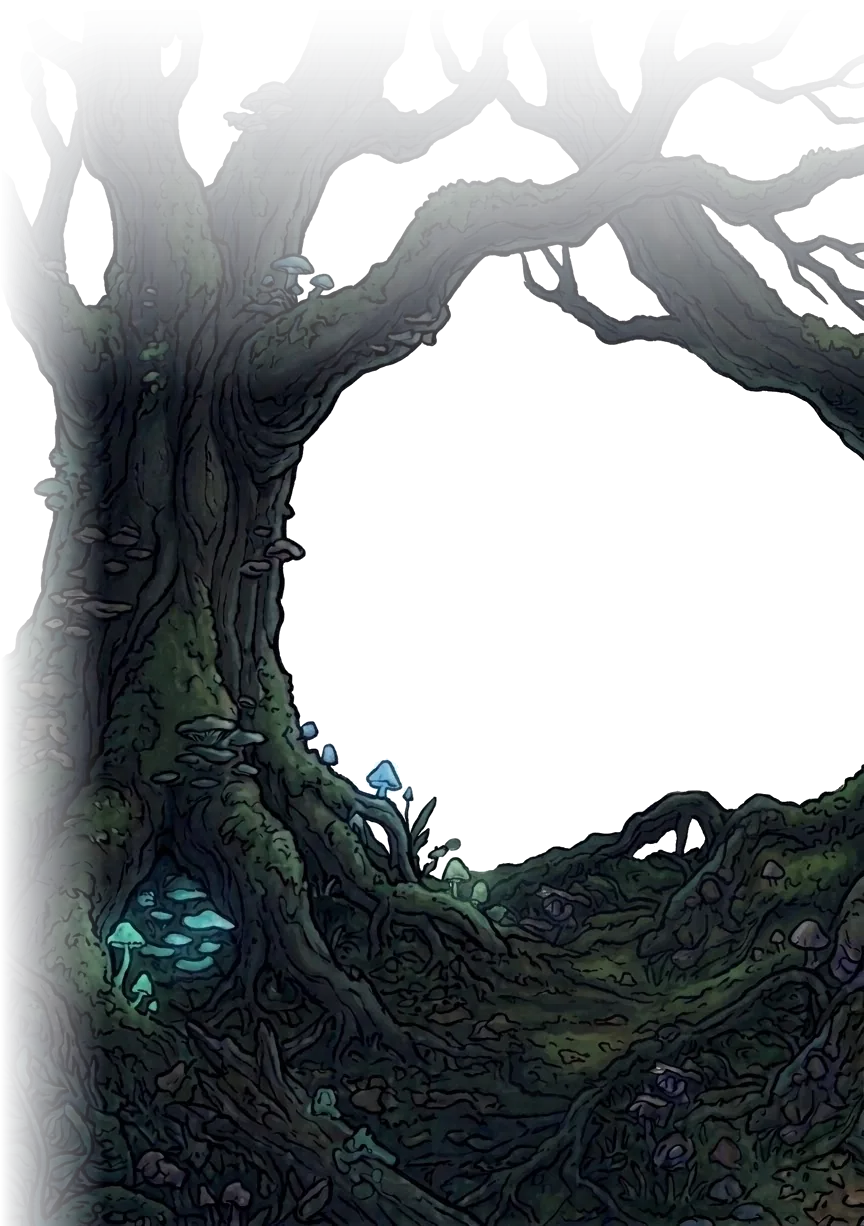
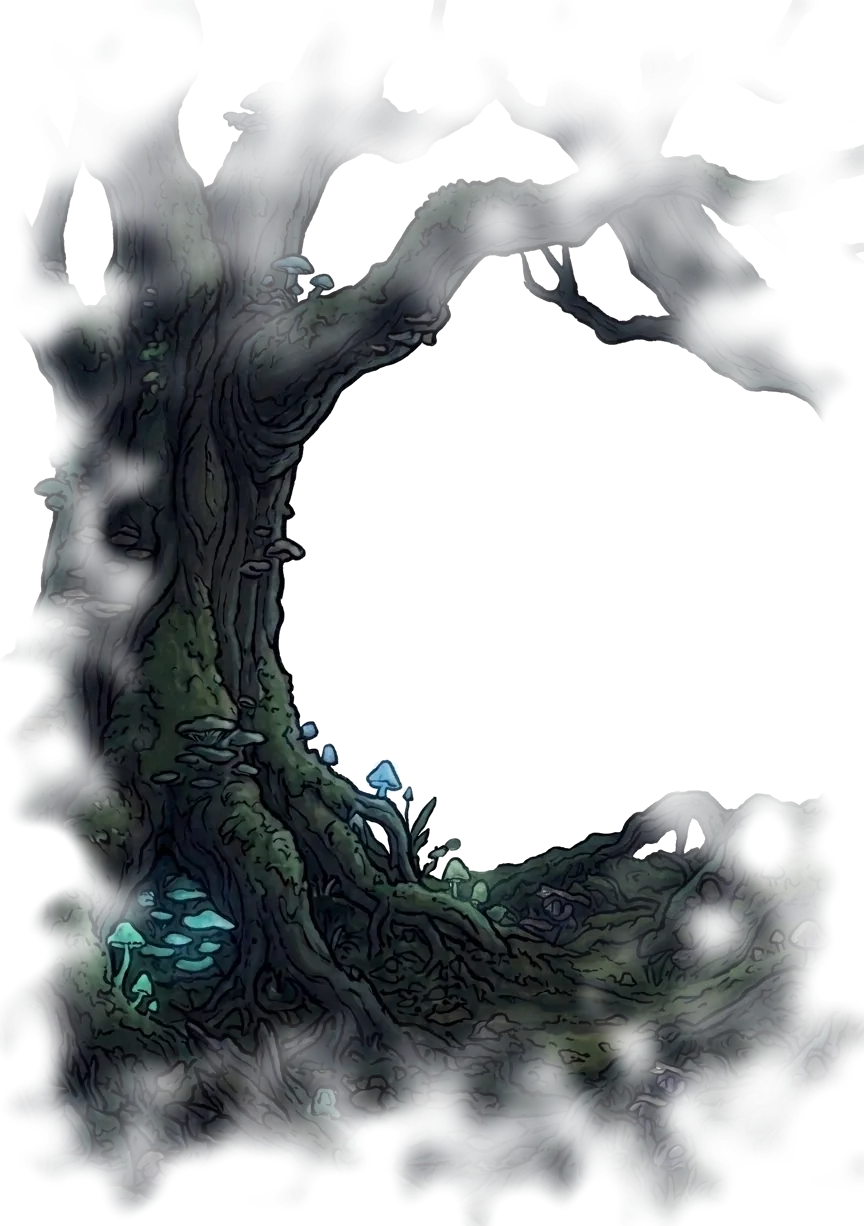
Stranglethorn: soften oak edges, tiny crawling spiders everywhere, webs strung over corridors
Claude-Session: https://claude.ai/code/session_016iBLHZqgtWrdG3jWmShjEG

diff --git a/index.html b/index.html
@@ -49,7 +49,7 @@ body{display:flex;justify-content:center}
 
 <script>
 const ATLAS_SRC="assets/lum_atlas_v5.webp?v=b5d321dc8e";
-const ASSET_SRC={"ground": "assets/ground.webp?v=c61ee31f5b", "rock1": "assets/rock1.webp?v=4e677f3831", "rock2": "assets/rock2.webp?v=7dd0569dcb", "rock3": "assets/rock3.webp?v=56b967ad67", "rock4": "assets/rock4.webp?v=0d1af80431", "cottage": "assets/cottage.webp?v=698443d54d", "cottage_win": "assets/cottage_win.webp?v=7aa924e07f", "cottage_runes": "assets/cottage_runes.webp?v=fedf57d4f3", "well2": "assets/well2.webp?v=af52a369ca", "signpost": "assets/signpost.webp?v=58d6cbc3c9", "runetree": "assets/runetree.webp?v=882fef9528", "runetree_runes": "assets/runetree_runes.webp?v=32432a9566", "forest_bg": "assets/forest_bg.webp?v=48e7441431", "wellroom": "assets/wellroom.webp?v=4c525760c2", "wellroom_runes": "assets/wellroom_runes.webp?v=f42530f4f2", "wellroom_nobucket": "assets/wellroom_nobucket.webp?v=f47f13a7c8", "bucket_hat": "assets/bucket_hat.webp?v=a26814e8f8", "bucket_worn": "assets/bucket_worn.webp?v=a493a15958", "jelly_idle": "assets/jelly_idle.webp?v=71fed74136", "jelly_lunge": "assets/jelly_lunge.webp?v=92b0dc4343", "studyroom": "assets/studyroom.webp?v=a45726d36c", "grave0": "assets/grave0.webp?v=ad382cac7a", "grave1": "assets/grave1.webp?v=cefcf7ebac", "grave2": "assets/grave2.webp?v=9878aa3e55", "grave3": "assets/grave3.webp?v=a7a223d89e", "grave4": "assets/grave4.webp?v=a1028b8b90", "grave5": "assets/grave5.webp?v=0e02f5ad47", "grave6": "assets/grave6.webp?v=d0d80e2012", "grave7": "assets/grave7.webp?v=63f26d00aa", "grave8": "assets/grave8.webp?v=23e439ffe1", "grave9": "assets/grave9.webp?v=e07c5d7e34", "grave10": "assets/grave10.webp?v=fc3c50105c", "grave11": "assets/grave11.webp?v=8c2b60ce50", "bedroom": "assets/bedroom.webp?v=2225ec5dde", "sleep_cos": "assets/sleep_cos.webp?v=1b3af569b0", "sleep_lum": "assets/sleep_lum.webp?v=cd742dd436", "shoproom": "assets/shoproom.webp?v=79fc4857bd", "pondroom": "assets/pondroom.webp?v=50b5134a4a", "pcol_l": "assets/pcol_l.webp?v=e9bb5ccd70", "pcol_r": "assets/pcol_r.webp?v=dbb98c3bbf", "shed": "assets/shed.webp?v=543a9519de", "shedroom": "assets/shedroom.webp?v=f4136aef1d", "mimic": "assets/mimic.webp?v=b4eccb2cc0", "skel": "assets/skel.webp?v=6bdb7d42b9", "fokalur": "assets/fokalur.webp?v=32e8fdde12", "gate": "assets/gate.webp?v=b13c3b515c", "hut": "assets/hut.webp?v=93968f3788", "icon_potion": "assets/icon_potion.webp?v=ead5b0d648", "icon_pouch_seal": "assets/icon_pouch_seal.webp?v=f5895d2c6b", "icon_pouch": "assets/icon_pouch.webp?v=1228805e30", "icon_pouch_rose": "assets/icon_pouch_rose.webp?v=9ce159b238", "icon_pouch_crystal": "assets/icon_pouch_crystal.webp?v=0f51c72ecd", "icon_stick": "assets/icon_stick.webp?v=7da6e80825", "icon_rod": "assets/icon_rod.webp?v=500c8ad5de", "icon_staff_crystal": "assets/icon_staff_crystal.webp?v=2fadb8e7cf", "icon_staff_unicorn": "assets/icon_staff_unicorn.webp?v=19aca18031", "icon_sword_wood": "assets/icon_sword_wood.webp?v=51208a1356", "icon_sword_iron": "assets/icon_sword_iron.webp?v=5d4e663c8b", "icon_blade_dark": "assets/icon_blade_dark.webp?v=f39a2c7691", "icon_sword_long": "assets/icon_sword_long.webp?v=e2ed18cc86", "icon_sword_rune": "assets/icon_sword_rune.webp?v=0950c74e57", "icon_boots_leather": "assets/icon_boots_leather.webp?v=735092ee0b", "icon_boots_rubber_green": "assets/icon_boots_rubber_green.webp?v=698906df6b", "icon_boots_chain": "assets/icon_boots_chain.webp?v=024ff688e1", "icon_boots_plate": "assets/icon_boots_plate.webp?v=74076691fc", "icon_boots_winged": "assets/icon_boots_winged.webp?v=8c4553d310", "icon_cloak_apprentice": "assets/icon_cloak_apprentice.webp?v=1d1a6ddb1f", "icon_cloak_undine": "assets/icon_cloak_undine.webp?v=940789d635", "icon_cloak_green": "assets/icon_cloak_green.webp?v=76adbc8f83", "icon_cloak_grey": "assets/icon_cloak_grey.webp?v=d59e43efdb", "icon_cape_stars": "assets/icon_cape_stars.webp?v=d6e7732a4b", "icon_cape_lion_red": "assets/icon_cape_lion_red.webp?v=71308a4082", "icon_cape_lion_white": "assets/icon_cape_lion_white.webp?v=898859a526", "icon_cape_wings": "assets/icon_cape_wings.webp?v=2f7ea8ce7c", "slugking": "assets/slugking.webp?v=2f01c887f5", "jelly_idle_moss": "assets/jelly_idle_moss.webp?v=86cd24ecd3", "jelly_lunge_moss": "assets/jelly_lunge_moss.webp?v=bb5e70117f", "rskel": "assets/rskel.webp?v=c21afe8d1f", "wisp": "assets/wisp.webp?v=5b64d7379a", "vane": "assets/vane.webp?v=ddc4dc4c1e", "reaper": "assets/reaper.webp?v=2d19da05f6", "vanehut": "assets/vanehut.webp?v=27acb20d56", "ing_duskberry": "assets/ing_duskberry.webp?v=227fa12fae", "ing_dewberry": "assets/ing_dewberry.webp?v=7acbb8f24a", "ing_emberberry": "assets/ing_emberberry.webp?v=182192d25f", "ing_leavesB5": "assets/ing_leavesB5.webp?v=670e67f484", "ing_slime": "assets/ing_slime.webp?v=2d52e374b9", "ing_bones": "assets/ing_bones.webp?v=d2f5252a5b", "ing_twig": "assets/ing_twig.webp?v=ce341bff86", "tool_lantern": "assets/tool_lantern.webp?v=b0badf9ba0", "tool_lantern_ornate": "assets/tool_lantern_ornate.webp?v=6d22a8b9d8", "tool_rune_compass": "assets/tool_rune_compass.webp?v=3d79732549", "emote_grab": "assets/emote_grab.webp?v=0210ee5f87", "icon4_boots_fur": "assets/icon4_boots_fur.webp?v=257380106a", "spider": "assets/spider.webp?v=2082b59414", "bat": "assets/bat.webp?v=8384f2ed44", "fox": "assets/fox.webp?v=d1d5a33797", "flora": "assets/flora.webp?v=b2984d2fc2", "bramble_arch": "assets/bramble_arch.webp?v=f4f04cdb52", "bramble_hedge": "assets/bramble_hedge.webp?v=d4eccc44e3", "oak_big": "assets/oak_big.webp?v=040deed49a", "webtree": "assets/webtree.webp?v=9c025b735f", "bwood_big": "assets/bwood_big.webp?v=cfb9ccc351", "bwood_small_a": "assets/bwood_small_a.webp?v=33d4334dc6", "bwood_small_b": "assets/bwood_small_b.webp?v=85c53e90a1", "bwood2_big": "assets/bwood2_big.webp?v=fdec0206c8", "bwood2_small_a": "assets/bwood2_small_a.webp?v=423d3b4f74", "bwood2_small_b": "assets/bwood2_small_b.webp?v=fc8a2edaac", "floor_st": "assets/floor_st.webp?v=c9eb0963f5", "rose_bud": "assets/rose_bud.webp?v=bcef1e8f75", "rose_open": "assets/rose_open.webp?v=a0242c359d", "rose_twin": "assets/rose_twin.webp?v=e2297a7a91", "thdec_stickweb": "assets/thdec_stickweb.webp?v=a0b5d29ef3", "thdec_mushweb": "assets/thdec_mushweb.webp?v=ef66bb87d1", "thdec_litterweb": "assets/thdec_litterweb.webp?v=55159b7bc4", "thdec_fernweb": "assets/thdec_fernweb.webp?v=835280ac84", "thdec_smallweb": "assets/thdec_smallweb.webp?v=ca6202bcd2", "thdec_log": "assets/thdec_log.webp?v=366093c3a6", "icon3_mortar_clay": "assets/icon3_mortar_clay.webp?v=79428386fe", "icon4_sun_bottle": "assets/icon4_sun_bottle.webp?v=814504de18", "icon3_frost_bowl": "assets/icon3_frost_bowl.webp?v=0e086c9798", "icon3_pastel_powders": "assets/icon3_pastel_powders.webp?v=f431b705e2", "icon2_cross_wood": "assets/icon2_cross_wood.webp?v=161f6ec751", "icon2_key_gold": "assets/icon2_key_gold.webp?v=8ff3771dd5", "hollow": "assets/hollow.webp?v=dfa726d993", "dun5": "assets/dun5.webp?v=85029c1dff", "dun4": "assets/dun4.webp?v=b46827d446", "dun3": "assets/dun3.webp?v=7a88b0e860", "dun2": "assets/dun2.webp?v=21d09cc1d9", "dun1": "assets/dun1.webp?v=06e6dc99cc", "acc_heart_ring": "assets/acc_heart_ring.webp?v=5bc343177a", "acc_braid_ring": "assets/acc_braid_ring.webp?v=ef878f119c", "acc_moon_necklace": "assets/acc_moon_necklace.webp?v=e57426d856", "acc_slime_ring": "assets/acc_slime_ring.webp?v=01154880ae", "acc_amethyst": "assets/acc_amethyst.webp?v=459ad65fc8", "acc_sunmoon_medal": "assets/acc_sunmoon_medal.webp?v=0ebb4c8567", "acc_lion_ring": "assets/acc_lion_ring.webp?v=d803438586", "acc_shell_necklace": "assets/acc_shell_necklace.webp?v=eb822dcaef", "acc_wing_brooch": "assets/acc_wing_brooch.webp?v=9e7d87c59b", "acc_moonstone_ring": "assets/acc_moonstone_ring.webp?v=ffda303e15", "sfg_chest": "assets/sfg_chest.webp?v=a472570ab1", "sfg_table": "assets/sfg_table.webp?v=013527fc10", "sfg_tableleg": "assets/sfg_tableleg.webp?v=1ad782e189", "sfg_side": "assets/sfg_side.webp?v=a4a3f2284f", "sfg_lectern": "assets/sfg_lectern.webp?v=c0df8fec54", "sfg_roots": "assets/sfg_roots.webp?v=c59040b279", "birch1": "assets/birch1.webp?v=b0ea24106f", "birch2": "assets/birch2.webp?v=2dd033eac7", "birch3": "assets/birch3.webp?v=e64553ecbd", "willow1": "assets/willow1.webp?v=98786f0c84", "cobble_strip": "assets/cobble_strip.webp?v=284855081b", "cobble_runes": "assets/cobble_runes.webp?v=07a4cad76e", "bridge0": "assets/bridge0.webp?v=c930b521f8", "bridge1": "assets/bridge1.webp?v=8e675faec7", "bridge2": "assets/bridge2.webp?v=65bc61c470", "bridge3": "assets/bridge3.webp?v=153e2f5c59", "bridge4": "assets/bridge4.webp?v=b6ff9fef90", "drained0": "assets/drained0.webp?v=dee278254d", "drained1": "assets/drained1.webp?v=c38f30e4a2", "drained2": "assets/drained2.webp?v=c2abd46393", "drained3": "assets/drained3.webp?v=d0408dce90", "drained4": "assets/drained4.webp?v=49fe89ce29", "drained5": "assets/drained5.webp?v=8b2a410ea1", "drained6": "assets/drained6.webp?v=b735f267b4", "drained7": "assets/drained7.webp?v=aefa2993f7", "drained8": "assets/drained8.webp?v=e853833327", "drained9": "assets/drained9.webp?v=9a5541fe81", "shrub0": "assets/shrub0.webp?v=f9f7df7aac", "shrub1": "assets/shrub1.webp?v=f4825b0d48", "shrub2": "assets/shrub2.webp?v=b0edbbd898", "shrub3": "assets/shrub3.webp?v=bc7a089a89", "shrub4": "assets/shrub4.webp?v=bb66d76d2e", "shrub5": "assets/shrub5.webp?v=ffbae35557", "shrub6": "assets/shrub6.webp?v=1c234a4c17", "shrub7": "assets/shrub7.webp?v=5b1a8119f9", "shrub8": "assets/shrub8.webp?v=a937edbbf3", "shrub9": "assets/shrub9.webp?v=dfb2f54698", "shrub10": "assets/shrub10.webp?v=5c2dd38d41", "shrub11": "assets/shrub11.webp?v=3faa1b4736", "bird0": "assets/bird0.webp?v=7d5d2404e5", "bird1": "assets/bird1.webp?v=eb12c73b19", "bird2": "assets/bird2.webp?v=ca02415237", "bird3": "assets/bird3.webp?v=42efa7eb02", "bird4": "assets/bird4.webp?v=7a9329e236", "bird5": "assets/bird5.webp?v=90bd3aa6a3", "bird6": "assets/bird6.webp?v=0a764f8ed6", "bird7": "assets/bird7.webp?v=04e3aa6d61", "bird8": "assets/bird8.webp?v=11cac9e48b", "bird9": "assets/bird9.webp?v=209732f271", "bird10": "assets/bird10.webp?v=518afeccc0", "bird11": "assets/bird11.webp?v=41c18c5083", "bird12": "assets/bird12.webp?v=9250bb7453", "topi_cube": "assets/topi_cube.webp?v=1fc6082fd5", "topi_ball": "assets/topi_ball.webp?v=78a3cfcc82", "topi_spiral": "assets/topi_spiral.webp?v=d6ac5cd38a", "topi_cone": "assets/topi_cone.webp?v=67e11f2900"};
+const ASSET_SRC={"ground": "assets/ground.webp?v=c61ee31f5b", "rock1": "assets/rock1.webp?v=4e677f3831", "rock2": "assets/rock2.webp?v=7dd0569dcb", "rock3": "assets/rock3.webp?v=56b967ad67", "rock4": "assets/rock4.webp?v=0d1af80431", "cottage": "assets/cottage.webp?v=698443d54d", "cottage_win": "assets/cottage_win.webp?v=7aa924e07f", "cottage_runes": "assets/cottage_runes.webp?v=fedf57d4f3", "well2": "assets/well2.webp?v=af52a369ca", "signpost": "assets/signpost.webp?v=58d6cbc3c9", "runetree": "assets/runetree.webp?v=882fef9528", "runetree_runes": "assets/runetree_runes.webp?v=32432a9566", "forest_bg": "assets/forest_bg.webp?v=48e7441431", "wellroom": "assets/wellroom.webp?v=4c525760c2", "wellroom_runes": "assets/wellroom_runes.webp?v=f42530f4f2", "wellroom_nobucket": "assets/wellroom_nobucket.webp?v=f47f13a7c8", "bucket_hat": "assets/bucket_hat.webp?v=a26814e8f8", "bucket_worn": "assets/bucket_worn.webp?v=a493a15958", "jelly_idle": "assets/jelly_idle.webp?v=71fed74136", "jelly_lunge": "assets/jelly_lunge.webp?v=92b0dc4343", "studyroom": "assets/studyroom.webp?v=a45726d36c", "grave0": "assets/grave0.webp?v=ad382cac7a", "grave1": "assets/grave1.webp?v=cefcf7ebac", "grave2": "assets/grave2.webp?v=9878aa3e55", "grave3": "assets/grave3.webp?v=a7a223d89e", "grave4": "assets/grave4.webp?v=a1028b8b90", "grave5": "assets/grave5.webp?v=0e02f5ad47", "grave6": "assets/grave6.webp?v=d0d80e2012", "grave7": "assets/grave7.webp?v=63f26d00aa", "grave8": "assets/grave8.webp?v=23e439ffe1", "grave9": "assets/grave9.webp?v=e07c5d7e34", "grave10": "assets/grave10.webp?v=fc3c50105c", "grave11": "assets/grave11.webp?v=8c2b60ce50", "bedroom": "assets/bedroom.webp?v=2225ec5dde", "sleep_cos": "assets/sleep_cos.webp?v=1b3af569b0", "sleep_lum": "assets/sleep_lum.webp?v=cd742dd436", "shoproom": "assets/shoproom.webp?v=79fc4857bd", "pondroom": "assets/pondroom.webp?v=50b5134a4a", "pcol_l": "assets/pcol_l.webp?v=e9bb5ccd70", "pcol_r": "assets/pcol_r.webp?v=dbb98c3bbf", "shed": "assets/shed.webp?v=543a9519de", "shedroom": "assets/shedroom.webp?v=f4136aef1d", "mimic": "assets/mimic.webp?v=b4eccb2cc0", "skel": "assets/skel.webp?v=6bdb7d42b9", "fokalur": "assets/fokalur.webp?v=32e8fdde12", "gate": "assets/gate.webp?v=b13c3b515c", "hut": "assets/hut.webp?v=93968f3788", "icon_potion": "assets/icon_potion.webp?v=ead5b0d648", "icon_pouch_seal": "assets/icon_pouch_seal.webp?v=f5895d2c6b", "icon_pouch": "assets/icon_pouch.webp?v=1228805e30", "icon_pouch_rose": "assets/icon_pouch_rose.webp?v=9ce159b238", "icon_pouch_crystal": "assets/icon_pouch_crystal.webp?v=0f51c72ecd", "icon_stick": "assets/icon_stick.webp?v=7da6e80825", "icon_rod": "assets/icon_rod.webp?v=500c8ad5de", "icon_staff_crystal": "assets/icon_staff_crystal.webp?v=2fadb8e7cf", "icon_staff_unicorn": "assets/icon_staff_unicorn.webp?v=19aca18031", "icon_sword_wood": "assets/icon_sword_wood.webp?v=51208a1356", "icon_sword_iron": "assets/icon_sword_iron.webp?v=5d4e663c8b", "icon_blade_dark": "assets/icon_blade_dark.webp?v=f39a2c7691", "icon_sword_long": "assets/icon_sword_long.webp?v=e2ed18cc86", "icon_sword_rune": "assets/icon_sword_rune.webp?v=0950c74e57", "icon_boots_leather": "assets/icon_boots_leather.webp?v=735092ee0b", "icon_boots_rubber_green": "assets/icon_boots_rubber_green.webp?v=698906df6b", "icon_boots_chain": "assets/icon_boots_chain.webp?v=024ff688e1", "icon_boots_plate": "assets/icon_boots_plate.webp?v=74076691fc", "icon_boots_winged": "assets/icon_boots_winged.webp?v=8c4553d310", "icon_cloak_apprentice": "assets/icon_cloak_apprentice.webp?v=1d1a6ddb1f", "icon_cloak_undine": "assets/icon_cloak_undine.webp?v=940789d635", "icon_cloak_green": "assets/icon_cloak_green.webp?v=76adbc8f83", "icon_cloak_grey": "assets/icon_cloak_grey.webp?v=d59e43efdb", "icon_cape_stars": "assets/icon_cape_stars.webp?v=d6e7732a4b", "icon_cape_lion_red": "assets/icon_cape_lion_red.webp?v=71308a4082", "icon_cape_lion_white": "assets/icon_cape_lion_white.webp?v=898859a526", "icon_cape_wings": "assets/icon_cape_wings.webp?v=2f7ea8ce7c", "slugking": "assets/slugking.webp?v=2f01c887f5", "jelly_idle_moss": "assets/jelly_idle_moss.webp?v=86cd24ecd3", "jelly_lunge_moss": "assets/jelly_lunge_moss.webp?v=bb5e70117f", "rskel": "assets/rskel.webp?v=c21afe8d1f", "wisp": "assets/wisp.webp?v=5b64d7379a", "vane": "assets/vane.webp?v=ddc4dc4c1e", "reaper": "assets/reaper.webp?v=2d19da05f6", "vanehut": "assets/vanehut.webp?v=27acb20d56", "ing_duskberry": "assets/ing_duskberry.webp?v=227fa12fae", "ing_dewberry": "assets/ing_dewberry.webp?v=7acbb8f24a", "ing_emberberry": "assets/ing_emberberry.webp?v=182192d25f", "ing_leavesB5": "assets/ing_leavesB5.webp?v=670e67f484", "ing_slime": "assets/ing_slime.webp?v=2d52e374b9", "ing_bones": "assets/ing_bones.webp?v=d2f5252a5b", "ing_twig": "assets/ing_twig.webp?v=ce341bff86", "tool_lantern": "assets/tool_lantern.webp?v=b0badf9ba0", "tool_lantern_ornate": "assets/tool_lantern_ornate.webp?v=6d22a8b9d8", "tool_rune_compass": "assets/tool_rune_compass.webp?v=3d79732549", "emote_grab": "assets/emote_grab.webp?v=0210ee5f87", "icon4_boots_fur": "assets/icon4_boots_fur.webp?v=257380106a", "spider": "assets/spider.webp?v=2082b59414", "bat": "assets/bat.webp?v=8384f2ed44", "fox": "assets/fox.webp?v=d1d5a33797", "flora": "assets/flora.webp?v=b2984d2fc2", "bramble_arch": "assets/bramble_arch.webp?v=f4f04cdb52", "bramble_hedge": "assets/bramble_hedge.webp?v=d4eccc44e3", "oak_big": "assets/oak_big.webp?v=a31af37e20", "webtree": "assets/webtree.webp?v=9c025b735f", "bwood_big": "assets/bwood_big.webp?v=cfb9ccc351", "bwood_small_a": "assets/bwood_small_a.webp?v=33d4334dc6", "bwood_small_b": "assets/bwood_small_b.webp?v=85c53e90a1", "bwood2_big": "assets/bwood2_big.webp?v=fdec0206c8", "bwood2_small_a": "assets/bwood2_small_a.webp?v=423d3b4f74", "bwood2_small_b": "assets/bwood2_small_b.webp?v=fc8a2edaac", "floor_st": "assets/floor_st.webp?v=c9eb0963f5", "rose_bud": "assets/rose_bud.webp?v=bcef1e8f75", "rose_open": "assets/rose_open.webp?v=a0242c359d", "rose_twin": "assets/rose_twin.webp?v=e2297a7a91", "thdec_stickweb": "assets/thdec_stickweb.webp?v=a0b5d29ef3", "thdec_mushweb": "assets/thdec_mushweb.webp?v=ef66bb87d1", "thdec_litterweb": "assets/thdec_litterweb.webp?v=55159b7bc4", "thdec_fernweb": "assets/thdec_fernweb.webp?v=835280ac84", "thdec_smallweb": "assets/thdec_smallweb.webp?v=ca6202bcd2", "thdec_log": "assets/thdec_log.webp?v=366093c3a6", "icon3_mortar_clay": "assets/icon3_mortar_clay.webp?v=79428386fe", "icon4_sun_bottle": "assets/icon4_sun_bottle.webp?v=814504de18", "icon3_frost_bowl": "assets/icon3_frost_bowl.webp?v=0e086c9798", "icon3_pastel_powders": "assets/icon3_pastel_powders.webp?v=f431b705e2", "icon2_cross_wood": "assets/icon2_cross_wood.webp?v=161f6ec751", "icon2_key_gold": "assets/icon2_key_gold.webp?v=8ff3771dd5", "hollow": "assets/hollow.webp?v=dfa726d993", "dun5": "assets/dun5.webp?v=85029c1dff", "dun4": "assets/dun4.webp?v=b46827d446", "dun3": "assets/dun3.webp?v=7a88b0e860", "dun2": "assets/dun2.webp?v=21d09cc1d9", "dun1": "assets/dun1.webp?v=06e6dc99cc", "acc_heart_ring": "assets/acc_heart_ring.webp?v=5bc343177a", "acc_braid_ring": "assets/acc_braid_ring.webp?v=ef878f119c", "acc_moon_necklace": "assets/acc_moon_necklace.webp?v=e57426d856", "acc_slime_ring": "assets/acc_slime_ring.webp?v=01154880ae", "acc_amethyst": "assets/acc_amethyst.webp?v=459ad65fc8", "acc_sunmoon_medal": "assets/acc_sunmoon_medal.webp?v=0ebb4c8567", "acc_lion_ring": "assets/acc_lion_ring.webp?v=d803438586", "acc_shell_necklace": "assets/acc_shell_necklace.webp?v=eb822dcaef", "acc_wing_brooch": "assets/acc_wing_brooch.webp?v=9e7d87c59b", "acc_moonstone_ring": "assets/acc_moonstone_ring.webp?v=ffda303e15", "sfg_chest": "assets/sfg_chest.webp?v=a472570ab1", "sfg_table": "assets/sfg_table.webp?v=013527fc10", "sfg_tableleg": "assets/sfg_tableleg.webp?v=1ad782e189", "sfg_side": "assets/sfg_side.webp?v=a4a3f2284f", "sfg_lectern": "assets/sfg_lectern.webp?v=c0df8fec54", "sfg_roots": "assets/sfg_roots.webp?v=c59040b279", "birch1": "assets/birch1.webp?v=b0ea24106f", "birch2": "assets/birch2.webp?v=2dd033eac7", "birch3": "assets/birch3.webp?v=e64553ecbd", "willow1": "assets/willow1.webp?v=98786f0c84", "cobble_strip": "assets/cobble_strip.webp?v=284855081b", "cobble_runes": "assets/cobble_runes.webp?v=07a4cad76e", "bridge0": "assets/bridge0.webp?v=c930b521f8", "bridge1": "assets/bridge1.webp?v=8e675faec7", "bridge2": "assets/bridge2.webp?v=65bc61c470", "bridge3": "assets/bridge3.webp?v=153e2f5c59", "bridge4": "assets/bridge4.webp?v=b6ff9fef90", "drained0": "assets/drained0.webp?v=dee278254d", "drained1": "assets/drained1.webp?v=c38f30e4a2", "drained2": "assets/drained2.webp?v=c2abd46393", "drained3": "assets/drained3.webp?v=d0408dce90", "drained4": "assets/drained4.webp?v=49fe89ce29", "drained5": "assets/drained5.webp?v=8b2a410ea1", "drained6": "assets/drained6.webp?v=b735f267b4", "drained7": "assets/drained7.webp?v=aefa2993f7", "drained8": "assets/drained8.webp?v=e853833327", "drained9": "assets/drained9.webp?v=9a5541fe81", "shrub0": "assets/shrub0.webp?v=f9f7df7aac", "shrub1": "assets/shrub1.webp?v=f4825b0d48", "shrub2": "assets/shrub2.webp?v=b0edbbd898", "shrub3": "assets/shrub3.webp?v=bc7a089a89", "shrub4": "assets/shrub4.webp?v=bb66d76d2e", "shrub5": "assets/shrub5.webp?v=ffbae35557", "shrub6": "assets/shrub6.webp?v=1c234a4c17", "shrub7": "assets/shrub7.webp?v=5b1a8119f9", "shrub8": "assets/shrub8.webp?v=a937edbbf3", "shrub9": "assets/shrub9.webp?v=dfb2f54698", "shrub10": "assets/shrub10.webp?v=5c2dd38d41", "shrub11": "assets/shrub11.webp?v=3faa1b4736", "bird0": "assets/bird0.webp?v=7d5d2404e5", "bird1": "assets/bird1.webp?v=eb12c73b19", "bird2": "assets/bird2.webp?v=ca02415237", "bird3": "assets/bird3.webp?v=42efa7eb02", "bird4": "assets/bird4.webp?v=7a9329e236", "bird5": "assets/bird5.webp?v=90bd3aa6a3", "bird6": "assets/bird6.webp?v=0a764f8ed6", "bird7": "assets/bird7.webp?v=04e3aa6d61", "bird8": "assets/bird8.webp?v=11cac9e48b", "bird9": "assets/bird9.webp?v=209732f271", "bird10": "assets/bird10.webp?v=518afeccc0", "bird11": "assets/bird11.webp?v=41c18c5083", "bird12": "assets/bird12.webp?v=9250bb7453", "topi_cube": "assets/topi_cube.webp?v=1fc6082fd5", "topi_ball": "assets/topi_ball.webp?v=78a3cfcc82", "topi_spiral": "assets/topi_spiral.webp?v=d6ac5cd38a", "topi_cone": "assets/topi_cone.webp?v=67e11f2900"};
 const COSMIC_SRC="assets/cosmic_atlas.webp?v=f87006b14b";
 const SLUG_SRC="assets/slug_atlas.webp?v=0aa482f919";
 (()=>{
@@ -2910,9 +2910,9 @@ function thornFree(x,y){if(x<18||y<14||y>TH_-14)return false;if(x>TW_-12&&Math.f
   if(Math.hypot((x-(12*TCW+TCW/2))/110,(y-(2*TCH+62))/34)<1)return false;
   return true;}
 function solveThorn(px,py,nx,ny){if(thornFree(nx,ny))return [nx,ny];if(thornFree(nx,py))return [nx,py];if(thornFree(px,ny))return [px,ny];return [px,py];}
-function enterThorn(){buildThorn();SCENE='thorn';lum.x=40;lum.y=TMZ.start*TCH+TCH/2+10;lum.face=1;lum.vx=lum.vy=0;lum.state='idle';lum.alpha=1;cam.x=lum.x+120;cam.y=lum.y-50;THORN.t=0;GOAL.tag='TASK';GOAL.text='Follow the red flowers through Stranglethorn';HINT.goalT=0;}
+function enterThorn(){buildThorn();if(!THORN.spiders)buildThornCritters();SCENE='thorn';lum.x=40;lum.y=TMZ.start*TCH+TCH/2+10;lum.face=1;lum.vx=lum.vy=0;lum.state='idle';lum.alpha=1;cam.x=lum.x+120;cam.y=lum.y-50;THORN.t=0;GOAL.tag='TASK';GOAL.text='Follow the red flowers through Stranglethorn';HINT.goalT=0;}
 function startThornPreview(){audioInit();c1Reset();C1.introDone=1;C1.hedgeSeen=1;C1I.on=false;WEVENT.on=false;INTRO.lumShown=true;if(!BAG.includes('lantern'))BAG.push('lantern');FADE.a=1;FADE.dir=-1;enterThorn();}
-function updateThorn(dt){updateThornAtmos(dt);const k=Math.min(1,dt*4.5);cam.x+=(lum.x+40-cam.x)*k;cam.y+=(lum.y-50-cam.y)*k;const vw=W/zoom,vh=H/zoom;cam.x=clamp(cam.x,vw/2-80,TW_+80-vw/2);cam.y=clamp(cam.y,-200+vh/2,TH_+60-vh/2);THORN.t+=dt;
+function updateThorn(dt){updateThornAtmos(dt);updateThornCritters(dt);const k=Math.min(1,dt*4.5);cam.x+=(lum.x+40-cam.x)*k;cam.y+=(lum.y-50-cam.y)*k;const vw=W/zoom,vh=H/zoom;cam.x=clamp(cam.x,vw/2-80,TW_+80-vw/2);cam.y=clamp(cam.y,-200+vh/2,TH_+60-vh/2);THORN.t+=dt;
   if(lum.x>TW_-30&&!C1.thornEnd&&!DLG.active){C1.thornEnd=1;C1.endCard=.001;}}
 function drawRedFlowers(x,y,s,seed){ctx.save();ctx.translate(x,y);ctx.scale(s,s);
   for(let i=0;i<4;i++){const a=hash(seed,i,61)*TAU,l=10+hash(seed,i,63)*8;ctx.fillStyle='#2f4a24';ctx.beginPath();ctx.ellipse(Math.cos(a)*l*.6,Math.sin(a)*l*.3+2,l*.55,3,a,0,TAU);ctx.fill();}
@@ -2967,6 +2967,46 @@ function updateThornAtmos(dt){const A=THORN.motes||(THORN.motes=[]);const vw=W/z
         const o=c.createOscillator(),g=c.createGain();o.type='sine';o.frequency.value=[622,698,740,932][Math.floor(Math.random()*4)];g.gain.setValueAtTime(0,now);g.gain.linearRampToValueAtTime(.025,now+.05);g.gain.exponentialRampToValueAtTime(.0005,now+3.5);o.connect(g);g.connect(SND.sfxVerb||SND.sfx);o.start(now);o.stop(now+3.6);}}}}}
 function drawThornMotes(){const A=THORN.motes||[];ctx.save();for(const m of A){if(m.k==='mote'){ctx.globalCompositeOperation='lighter';const tw=.5+.5*Math.sin(T*2+m.ph);drawGlow(ctx,m.x,m.y-m.z,m.s*5,'200,190,230',.22*tw);}
   else{ctx.globalCompositeOperation='source-over';ctx.save();ctx.translate(m.x,m.y);ctx.rotate(m.rot);ctx.scale(1,.55+.45*Math.sin(m.rot*1.7));ctx.fillStyle='rgba(120,22,34,.85)';ctx.beginPath();ctx.ellipse(0,0,m.s,m.s*.55,0,0,TAU);ctx.fill();ctx.restore();}}ctx.restore();}
+
+/* ---------- tiny crawling spiders and webs strung over the corridors ---------- */
+function buildThornCritters(){const H_=(a,b,s)=>hash(a,b,s);THORN.spiders=[];THORN.webs=[];
+  for(let r=0;r<TMZ.R;r++)for(let c=0;c<TMZ.C;c++){
+    const n=1+Math.floor(H_(r,c,101)*3);for(let k=0;k<n;k++)THORN.spiders.push({x:c*TCW+40+H_(r,c*5+k,103)*(TCW-80),y:r*TCH+40+H_(r,c*5+k,105)*(TCH-80),cx:c*TCW,cy:r*TCH,a:H_(r,c*5+k,107)*TAU,v:0,t:H_(r,c*5+k,109)*3,ph:H_(r,c*5+k,111)*5,s:.8+H_(r,c*5+k,113)*.5});
+    // a web across the corridor wherever both sides are hedged
+    if(vW(r,c)&&vW(r,c+1)&&H_(r,c,121)<.45)THORN.webs.push(mkWeb(c*TCW+20,r*TCH+TCH*(.35+H_(r,c,123)*.35),(c+1)*TCW-20,0,r*1000+c));
+    else if(hW(r,c)&&hW(r+1,c)&&H_(r,c,125)<.4)THORN.webs.push(mkWeb(c*TCW+TCW*(.3+H_(r,c,127)*.4),r*TCH+8,0,(r+1)*TCH-8,r*1000+c+500,true));}}
+function mkWeb(x0,y0,x1,y1,seed,vert){// x0,y0 to x1 (horizontal span) or y0 to y1 (vertical span); drawn as a raised web overhead
+  const R_=(k)=>hash(seed,k,131);let cx,cy,anch=[];
+  if(!vert){cx=(x0+x1)/2+(R_(1)-.5)*60;cy=y0-150-R_(2)*40;anch=[[x0,y0-170-R_(3)*50],[x0+10,y0-70],[x1,y0-160-R_(4)*50],[x1-10,y0-60],[cx+(R_(5)-.5)*80,y0-300-R_(6)*40],[cx+(R_(7)-.5)*60,y0-40]];}
+  else{cx=x0+(R_(1)-.5)*40;cy=(y0+y1)/2-150;anch=[[x0-90,y0-120],[x0+90,y0-130],[x0-80,y1-170],[x0+85,y1-160],[x0-150,cy+(R_(5)-.5)*40],[x0+150,cy+(R_(6)-.5)*40]];}
+  return {cx,cy,anch,seed,y:vert?y1:y0,spider:R_(9)<.5,sway:R_(10)*TAU,can:null};}
+function webCanvas(w){if(w.can)return w.can;let x0=1e9,y0=1e9,x1=-1e9,y1=-1e9;for(const [x,y] of w.anch){x0=Math.min(x0,x);y0=Math.min(y0,y);x1=Math.max(x1,x);y1=Math.max(y1,y);}
+  const pad=20,cw=Math.ceil(x1-x0+pad*2),ch=Math.ceil(y1-y0+pad*2),c=document.createElement('canvas');c.width=cw;c.height=ch;const g=c.getContext('2d');const ox=-x0+pad,oy=-y0+pad,cx=w.cx+ox,cy=w.cy+oy;
+  g.lineCap='round';g.strokeStyle='rgba(235,232,245,.75)';g.lineWidth=1.3;
+  // frame threads to the anchors, then radials, then the sticky spiral
+  const A=w.anch.map(([x,y])=>[x+ox,y+oy]).sort((p,q)=>Math.atan2(p[1]-cy,p[0]-cx)-Math.atan2(q[1]-cy,q[0]-cx));
+  for(const [x,y] of A){g.beginPath();g.moveTo(cx,cy);g.lineTo(x,y);g.stroke();}
+  g.lineWidth=.9;g.strokeStyle='rgba(225,222,240,.55)';const rad=[];const NR=16;for(let i=0;i<NR;i++){const a=i/NR*TAU+hash(w.seed,i,141)*.2;let best=1e9;
+    // radial length limited by the frame polygon
+    for(let k=0;k<A.length;k++){const p=A[k],q=A[(k+1)%A.length];const dx=Math.cos(a),dy=Math.sin(a),ex=q[0]-p[0],ey=q[1]-p[1],den=dx*ey-dy*ex;if(Math.abs(den)<1e-6)continue;const t=((p[0]-cx)*ey-(p[1]-cy)*ex)/den,u=((p[0]-cx)*dy-(p[1]-cy)*dx)/den;if(t>0&&u>=0&&u<=1)best=Math.min(best,t);}
+    if(best>1e8)best=60;rad.push([a,best]);g.beginPath();g.moveTo(cx,cy);g.lineTo(cx+Math.cos(a)*best,cy+Math.sin(a)*best);g.stroke();}
+  for(let k=0;k<A.length;k++){const p=A[k],q=A[(k+1)%A.length];g.beginPath();g.moveTo(p[0],p[1]);g.quadraticCurveTo((p[0]+q[0])/2+(cx-(p[0]+q[0])/2)*.12,(p[1]+q[1])/2+(cy-(p[1]+q[1])/2)*.12,q[0],q[1]);g.stroke();}
+  g.lineWidth=.8;g.strokeStyle='rgba(230,228,245,.5)';for(let ring=1;ring<=11;ring++){const f=ring/12;g.beginPath();for(let i=0;i<=NR;i++){const [a,L]=rad[i%NR],rr=L*f*(1+(hash(w.seed,ring*20+i,151)-.5)*.06);const px=cx+Math.cos(a)*rr,py=cy+Math.sin(a)*rr+f*4;if(!i)g.moveTo(px,py);else{const [pa,pL]=rad[(i-1)%NR],pr=pL*f,mx=cx+Math.cos((pa+a)/2+(i===NR?Math.PI:0))*pr*.93,my=cy+Math.sin((pa+a)/2+(i===NR?Math.PI:0))*pr*.93+f*6;g.quadraticCurveTo(mx,my,px,py);}}g.stroke();}
+  // a few torn strands hanging down
+  g.strokeStyle='rgba(225,222,240,.4)';for(let i=0;i<4;i++){const [a,L]=rad[(i*5)%NR];const px=cx+Math.cos(a)*L*.7,py=cy+Math.sin(a)*L*.7;g.beginPath();g.moveTo(px,py);g.quadraticCurveTo(px+6,py+30,px+(hash(w.seed,i,161)-.5)*20,py+50+hash(w.seed,i,163)*50);g.stroke();}
+  c.ox=x0-pad;c.oy=y0-pad;w.can=c;return c;}
+function updateThornCritters(dt){const vw=W/zoom,vh=H/zoom;for(const sp of THORN.spiders||[]){if(Math.abs(sp.x-cam.x)>vw||Math.abs(sp.y-cam.y)>vh)continue;sp.t-=dt;
+    if(sp.t<=0){if(Math.random()<.35){sp.v=0;sp.t=rnd(.6,2.2);}else{sp.v=rnd(20,46);sp.a+=rnd(-1.6,1.6);sp.t=rnd(.8,2.6);}}
+    // scatter from Lum's feet
+    const dx=sp.x-lum.x,dy=sp.y-lum.y,d=Math.hypot(dx,dy);if(d<70){sp.a=Math.atan2(dy,dx);sp.v=80;sp.t=.6;}
+    if(sp.v>0){let nx=sp.x+Math.cos(sp.a)*sp.v*dt,ny=sp.y+Math.sin(sp.a)*sp.v*dt*.7;if(nx<sp.cx+16||nx>sp.cx+TCW-16){sp.a=Math.PI-sp.a;nx=sp.x;}if(ny<sp.cy+10||ny>sp.cy+TCH-10){sp.a=-sp.a;ny=sp.y;}sp.x=nx;sp.y=ny;sp.ph+=dt*sp.v*.25;}}}
+function drawThornCritters(x0,y0,x1,y1){const im=IMG.spider;if(ready(im))for(const sp of THORN.spiders||[]){if(sp.x<x0||sp.x>x1||sp.y<y0||sp.y>y1)continue;const flip=Math.cos(sp.a)<0;
+    c1Frame(ctx,'spider',sp.v>0?'crawl':'idle',sp.v>0?Math.floor(sp.ph)%5:Math.floor(T*3+sp.ph)%4,sp.x,sp.y,54*sp.s,flip,.95,0);}}
+function drawThornWebs(x0,y0,x1,y1){for(const w of THORN.webs||[]){if(w.cx<x0-250||w.cx>x1+250||w.cy<y0-250||w.cy>y1+400)continue;const c=webCanvas(w);
+    // brighter when the lantern catches it
+    const d=Math.hypot(w.cx-lum.x,w.cy+120-lum.y),lit=clamp(1-d/520,0,1);ctx.save();ctx.globalAlpha=.42+.5*lit;const sw=Math.sin(T*.8+w.sway)*2;ctx.translate(sw,0);ctx.drawImage(c,c.ox,c.oy);
+    if(w.spider&&ready(IMG.spider)){c1Frame(ctx,'spider','idle',Math.floor(T*2+w.sway)%4,w.cx,w.cy+14,30,false,.95,0);}
+    if(lit>.2){ctx.globalCompositeOperation='lighter';drawGlow(ctx,w.cx,w.cy,60,'220,215,255',.12*lit);}ctx.restore();}}
 function drawThorn(){const vw=W/zoom,vh=H/zoom,x0=cam.x-vw/2-60,y0=cam.y-vh/2-60,x1=cam.x+vw/2+60,y1=cam.y+vh/2+400;
   ctx.setTransform(DPR*zoom,0,0,DPR*zoom,DPR*(W/2-cam.x*zoom),DPR*(H/2-cam.y*zoom));
   ctx.fillStyle='#1d2a1a';ctx.fillRect(x0,y0,x1-x0,y1-y0);
@@ -2977,6 +3017,7 @@ function drawThorn(){const vw=W/zoom,vh=H/zoom,x0=cam.x-vw/2-60,y0=cam.y-vh/2-60
   for(const f of THORN.flowers)if(f.x>x0-30&&f.x<x1+30&&f.y>y0-30&&f.y<y1)drawRedFlowers(f.x,f.y,f.s,f.seed);
   const L=[];for(const o of THORN.props)if(o.x>x0-o.w/2-40&&o.x<x1+o.w/2+40&&o.y>y0-20&&o.y<y1+o.w*1.4)L.push([o.y,o]);L.push([lum.y,null]);L.sort((a,b)=>a[0]-b[0]);
   THORN.blooms=[];let past=false;for(const [,o] of L){if(!o){drawLum();past=true;continue;}let fa=1;if(past){const kx=clamp(1-(Math.abs(o.x-lum.x)-o.w*.2)/(o.w*.3),0,1),ky=clamp(1-(o.y-lum.y-o.w*.7)/(o.w*.35),0,1);fa=1-kx*ky*(o.t==='arch'?.4:.58);}drawThornProp(o,fa);}
+  drawThornCritters(x0,y0,x1,y1);drawThornWebs(x0,y0,x1,y1);
   drawThornMotes();
   ctx.save();ctx.globalCompositeOperation='lighter';for(const m of THORN.mist){if(m.x<x0-m.r||m.x>x1+m.r||m.y<y0-m.r||m.y>y1+m.r)continue;drawGlow(ctx,m.x+Math.sin(T*.08+m.ph)*50,m.y,m.r,'150,90,110',.05+.025*Math.sin(T*.4+m.ph));}ctx.restore();
   ctx.setTransform(DPR,0,0,DPR,0,0);
